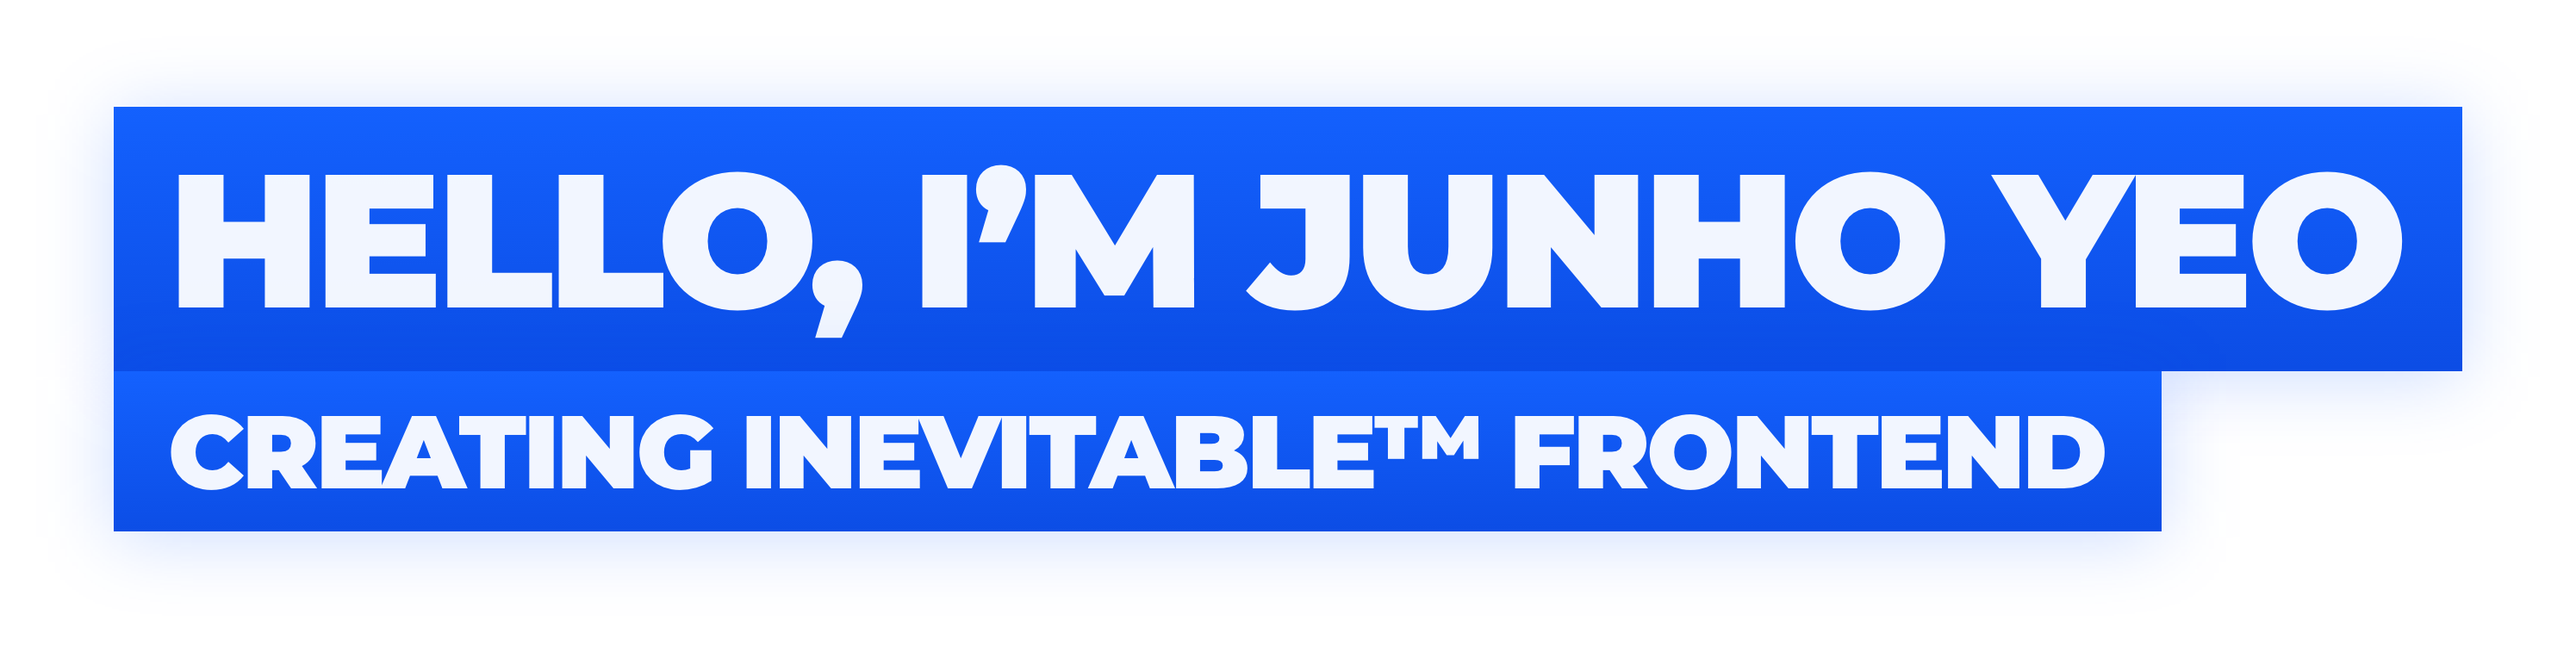
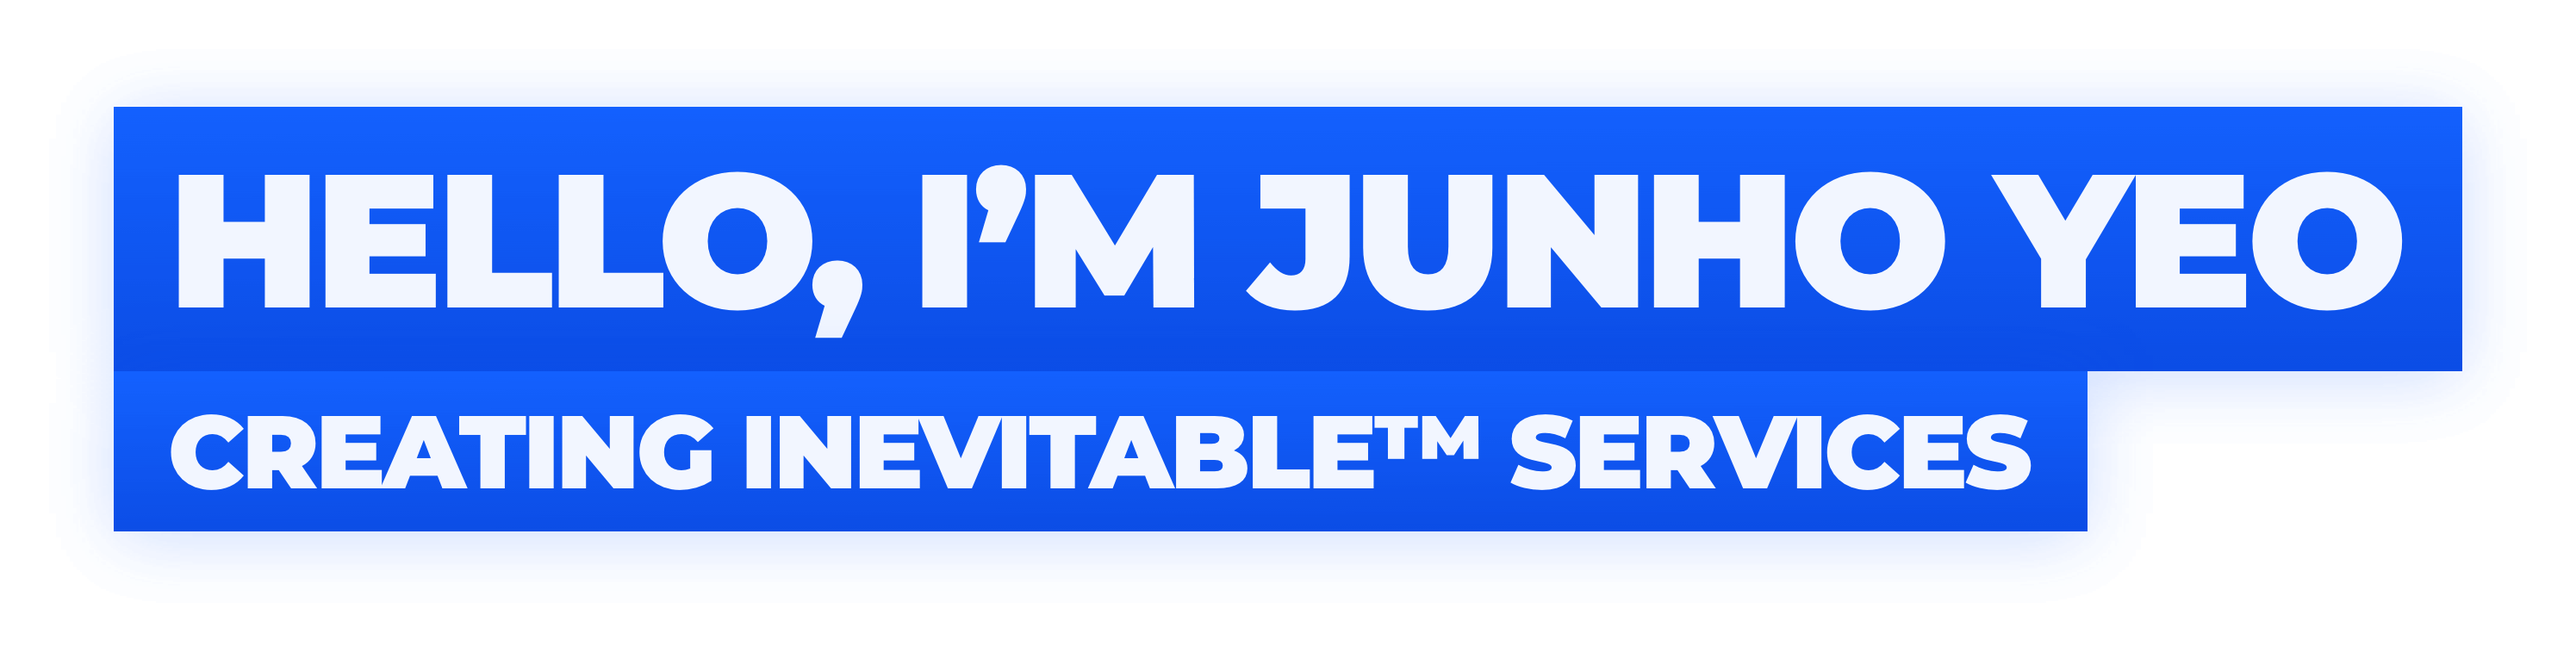
✨ Now creating INEVITABLE services

Changed region(s): [[0.591, 0.5469, 0.8398, 0.8203]]

diff --git a/README.md b/README.md
@@ -1,4 +1,4 @@
-<img alt="Hello, I'm Junho Yeo" src="https://github.com/junhoyeo/junhoyeo/raw/master/images/title.png" width="612" />
+<img alt="Hello, I'm Junho Yeo" src="https://github.com/junhoyeo/junhoyeo/raw/master/images/title.png?v=2" width="612" />
 
 > 공부 많이 시키는 기숙사 학교 가서 책은 안 펴고 **하루 종일** 코드만 짜고 있는 여준호입니다.
 
